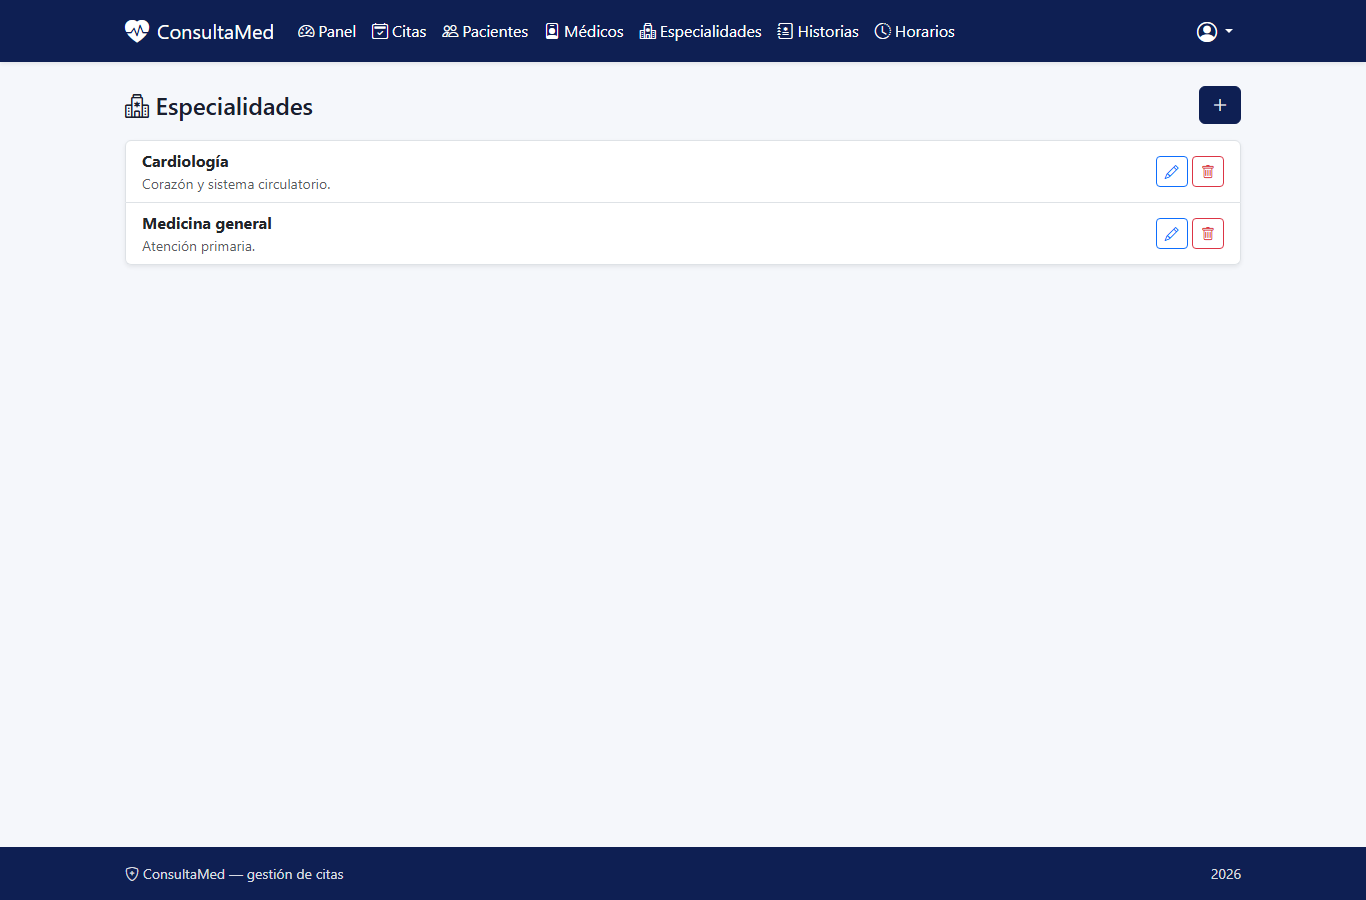
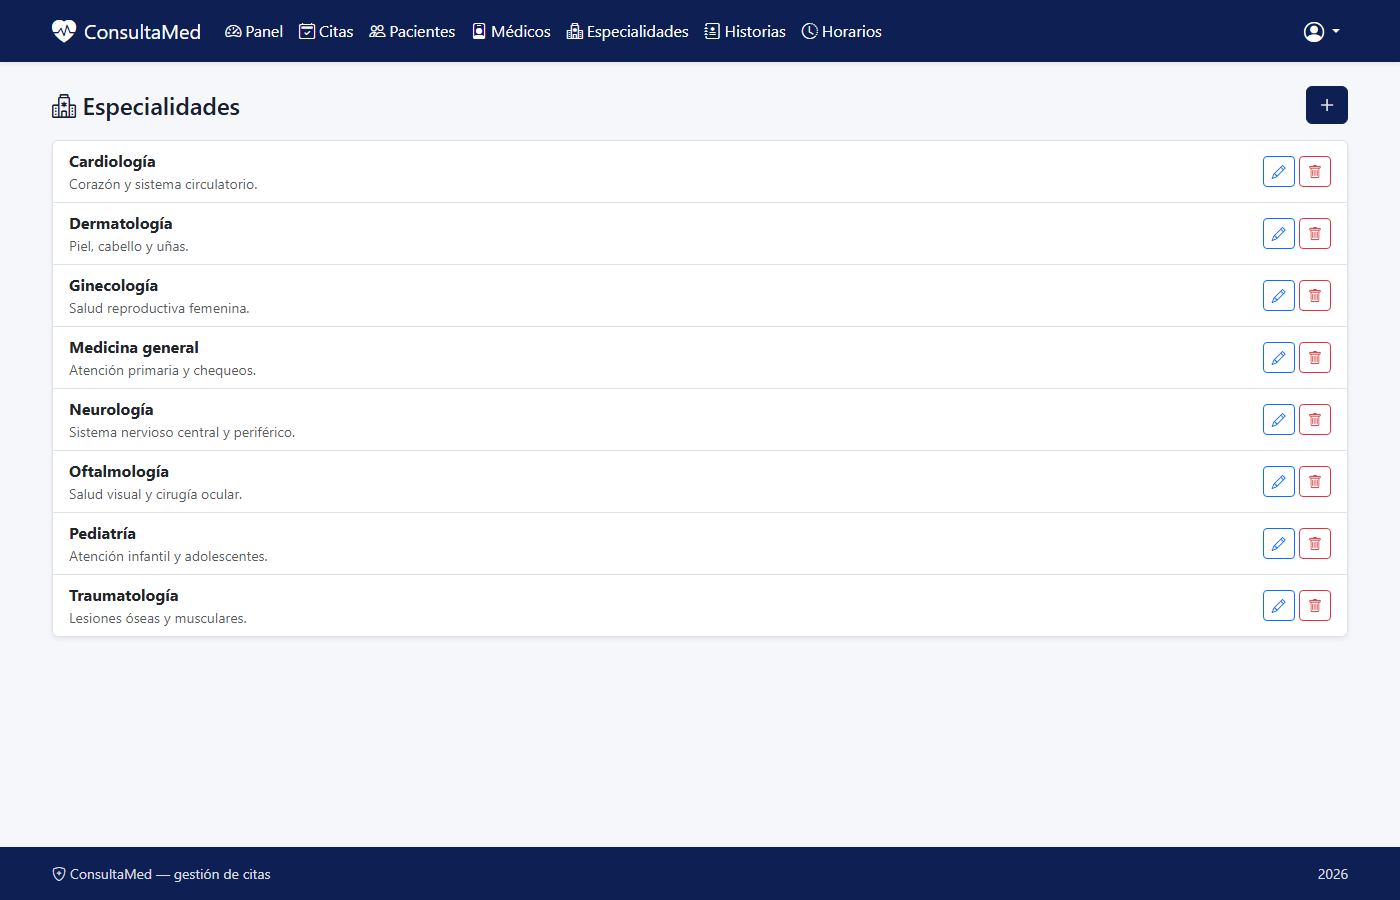
docs: evidencia README desde produccion Render y dataset amplio

diff --git a/scripts/capture_readme.py b/scripts/capture_readme.py
@@ -1,0 +1,68 @@
+"""
+Genera capturas para el README (producción Render o local).
+
+  python scripts/capture_readme.py
+  python scripts/capture_readme.py --base-url http://127.0.0.1:8000
+"""
+import argparse
+import re
+from pathlib import Path
+
+from playwright.sync_api import sync_playwright
+
+DEFAULT_BASE = "https://consultamed.onrender.com"
+ADMIN_EMAIL = "admin@consultamed.local"
+ADMIN_PASSWORD = "Admin123!"
+OUT = Path(__file__).resolve().parent.parent / "capturas"
+
+PAGES_AFTER_LOGIN = [
+    ("03_panel_admin.png", "/panel/", "chartEspecialidad"),
+    ("04_citas_listado.png", "/citas/", None),
+    ("05_especialidades.png", "/especialidades/", None),
+    ("06_medicos.png", "/medicos/", None),
+    ("07_pacientes.png", "/pacientes/", None),
+    ("08_historias_clinicas.png", "/historias/", None),
+    ("09_horarios_disponibilidad.png", "/horarios/", None),
+]
+
+
+def main() -> None:
+    parser = argparse.ArgumentParser()
+    parser.add_argument("--base-url", default=DEFAULT_BASE)
+    args = parser.parse_args()
+    base = args.base_url.rstrip("/")
+    OUT.mkdir(parents=True, exist_ok=True)
+
+    with sync_playwright() as p:
+        browser = p.chromium.launch(headless=True)
+        page = browser.new_page(viewport={"width": 1400, "height": 900})
+        page.set_default_timeout(120_000)
+
+        page.goto(f"{base}/", wait_until="domcontentloaded")
+        page.wait_for_timeout(2000)
+        page.screenshot(path=str(OUT / "01_landing.png"), full_page=True)
+
+        page.goto(f"{base}/cuentas/iniciar-sesion/", wait_until="domcontentloaded")
+        page.screenshot(path=str(OUT / "02_login.png"), full_page=True)
+
+        page.fill('input[name="username"]', ADMIN_EMAIL)
+        page.fill('input[name="password"]', ADMIN_PASSWORD)
+        page.click('button[type="submit"]')
+        page.wait_for_url(re.compile(r".*/panel/?"), timeout=120_000)
+
+        for filename, path, chart_id in PAGES_AFTER_LOGIN:
+            page.goto(f"{base}{path}", wait_until="domcontentloaded")
+            if chart_id:
+                page.wait_for_selector(f"#{chart_id}", state="visible", timeout=60_000)
+                page.wait_for_timeout(2500)
+            else:
+                page.wait_for_timeout(1500)
+            page.screenshot(path=str(OUT / filename), full_page=True)
+
+        browser.close()
+
+    print(f"Capturas guardadas en {OUT}")
+
+
+if __name__ == "__main__":
+    main()

diff --git a/README.md b/README.md
@@ -207,21 +207,32 @@ Al pasar una cita a estado **Confirmada**, se envía un correo a paciente y méd
 └── README.md
 ```
 
-## Evidencia de ejecución local (`runserver`)
+## Evidencia de despliegue y funcionamiento
 
-Tras `migrate`, `seed_demo` y `python manage.py runserver`, la aplicación queda disponible en `http://127.0.0.1:8000/`. Las capturas siguientes documentan **vistas** públicas y del panel con usuario **administrador** (`admin@consultamed.local`), mostrando navegación por citas, especialidades, médicos, pacientes, historias clínicas y horarios (funcionalidades expuestas en `consultas/urls.py` y vistas asociadas).
+**Producción (Render):** [https://consultamed.onrender.com](https://consultamed.onrender.com)  
+**Dataset de demo:** `seed_demo` amplio — 210 citas, 55 pacientes, 14 médicos, 8 especialidades (ver [`CREDENCIALES_PRUEBA.txt`](CREDENCIALES_PRUEBA.txt)).
+
+Capturas tomadas en el entorno desplegado con usuario **administrador** (`admin@consultamed.local`). El panel muestra indicadores y gráficos **Chart.js** alimentados por la API (`/api/chart/...`).
 
 | Vista / función | Captura |
 |-----------------|--------|
 | Landing (`/`) | ![Landing](capturas/01_landing.png) |
 | Inicio de sesión (`/cuentas/iniciar-sesion/`) | ![Login](capturas/02_login.png) |
-| Panel administrador con gráficos (`/panel/`) | ![Panel admin](capturas/03_panel_admin.png) |
+| Panel administrador — KPIs y gráficos (`/panel/`) | ![Panel admin](capturas/03_panel_admin.png) |
 | Listado de citas (`/citas/`) | ![Citas](capturas/04_citas_listado.png) |
 | Especialidades (`/especialidades/`) | ![Especialidades](capturas/05_especialidades.png) |
 | Médicos (`/medicos/`) | ![Médicos](capturas/06_medicos.png) |
 | Pacientes (`/pacientes/`) | ![Pacientes](capturas/07_pacientes.png) |
 | Historias clínicas (`/historias/`) | ![Historias](capturas/08_historias_clinicas.png) |
 | Horarios de disponibilidad (`/horarios/`) | ![Horarios](capturas/09_horarios_disponibilidad.png) |
+
+Para regenerar las capturas:
+
+```bash
+pip install playwright && python -m playwright install chromium
+python scripts/capture_readme.py
+# Local: python scripts/capture_readme.py --base-url http://127.0.0.1:8000
+```
 
 ## Evidencia de historial en Git (Git Graph)
 
